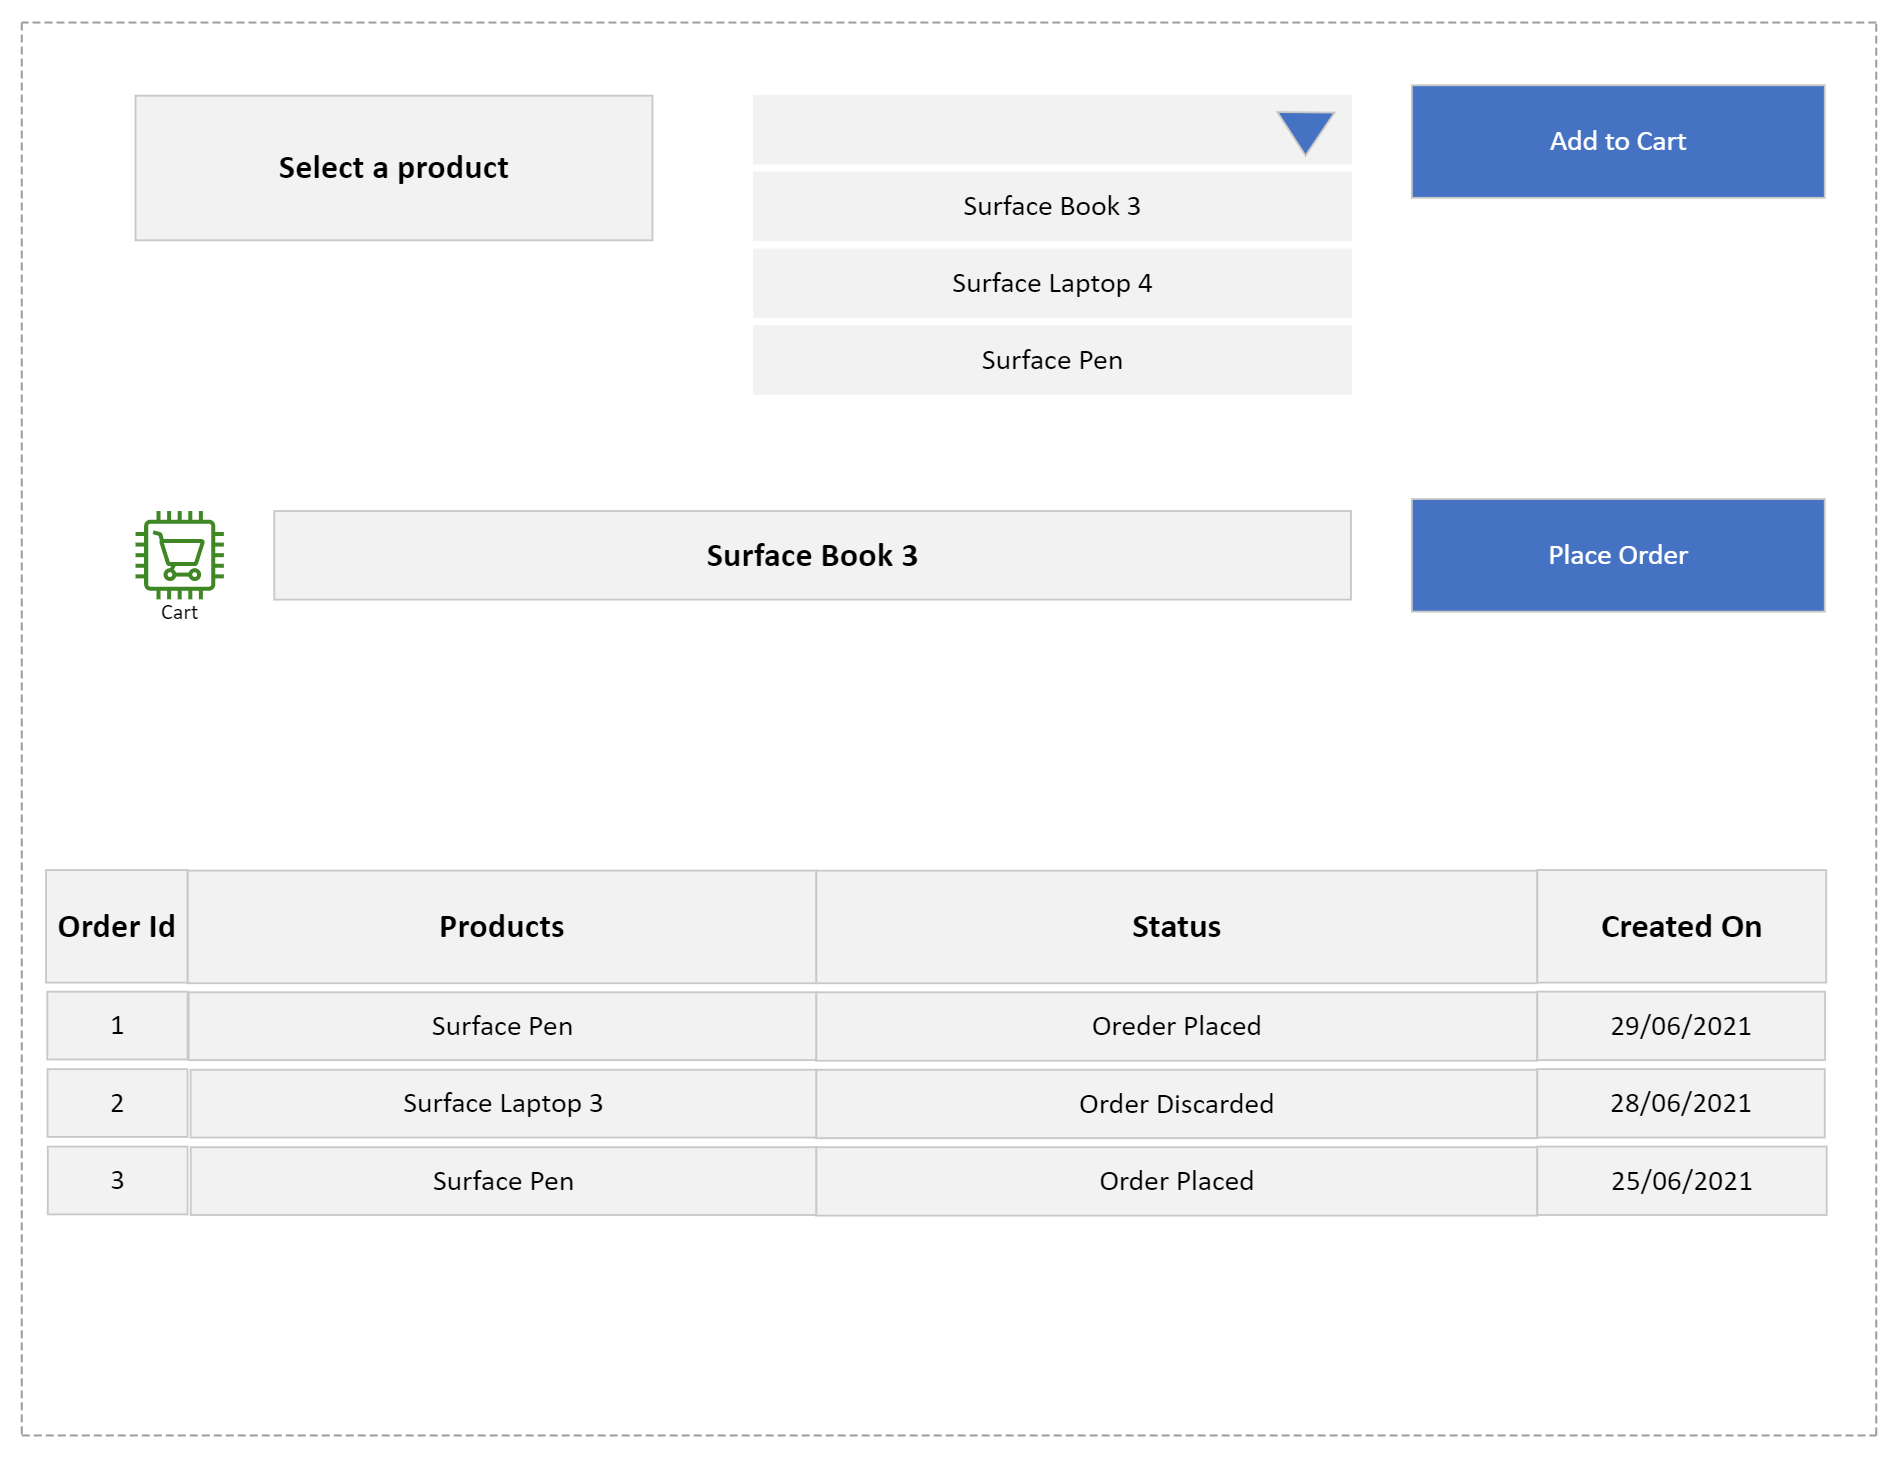
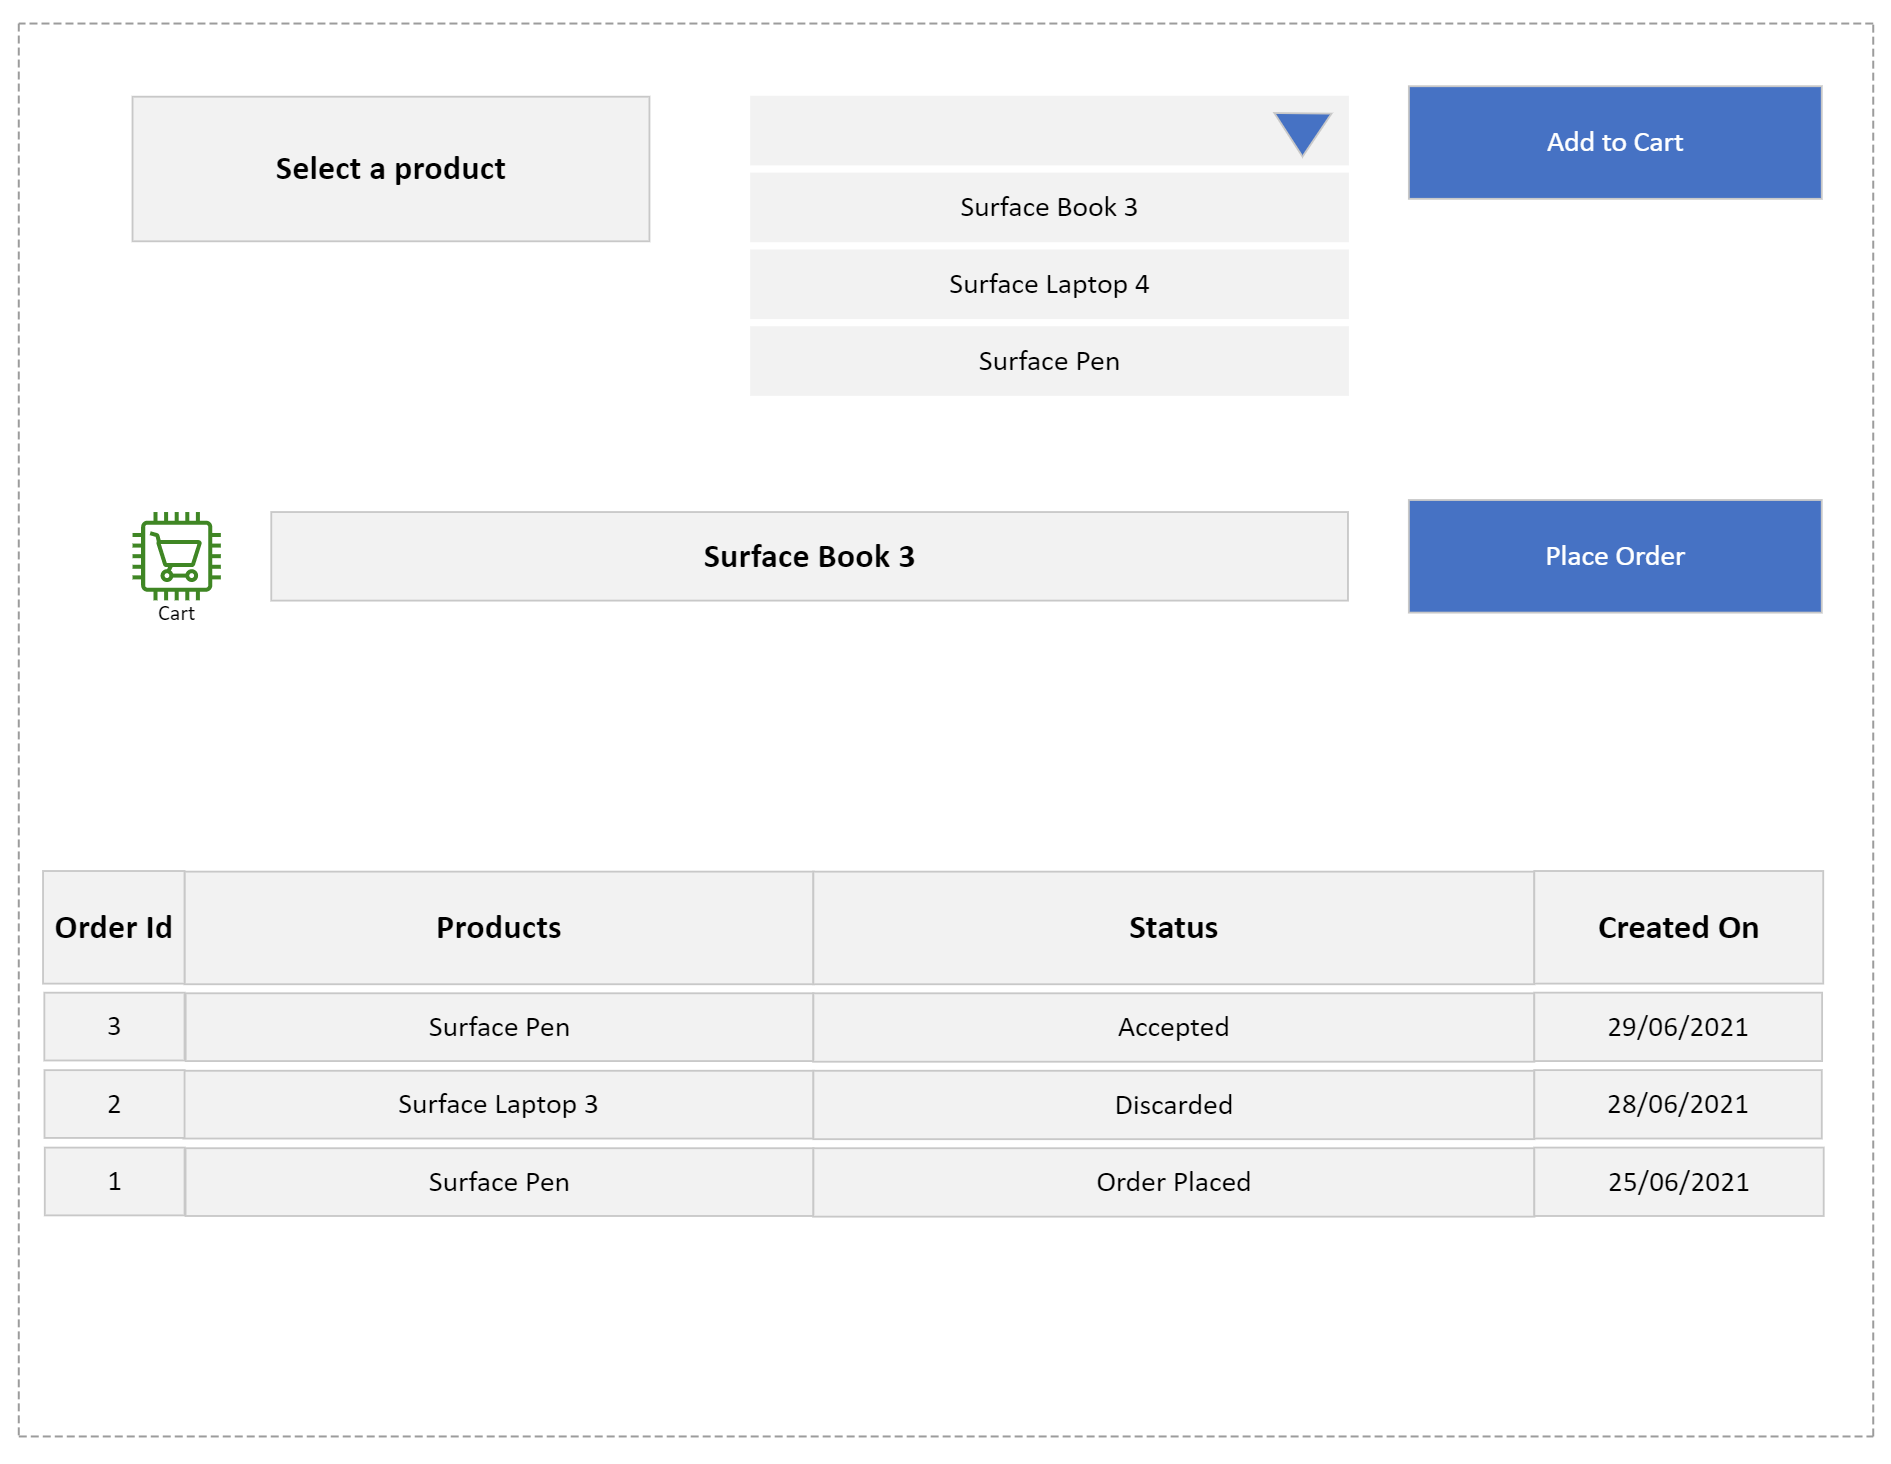
Assumptions added

diff --git a/usecase-scenarios.md b/usecase-scenarios.md
@@ -62,3 +62,16 @@ WHEN the order is picked by backend service with "Accepted" status
 THEN a dispatch confirmation email to the customer should be sent
 AND the order status should be changed to "Completed"
 ```
+
+## **Assumptions**
+
+1. The cart is limited to one item
+2. We will only store following attributes for products,
+   - Product ID
+   - Title
+   - InStockQuantity
+3. Order statuses are limited to,
+   - Created
+   - Accepted
+   - Discarded
+   - Completed
